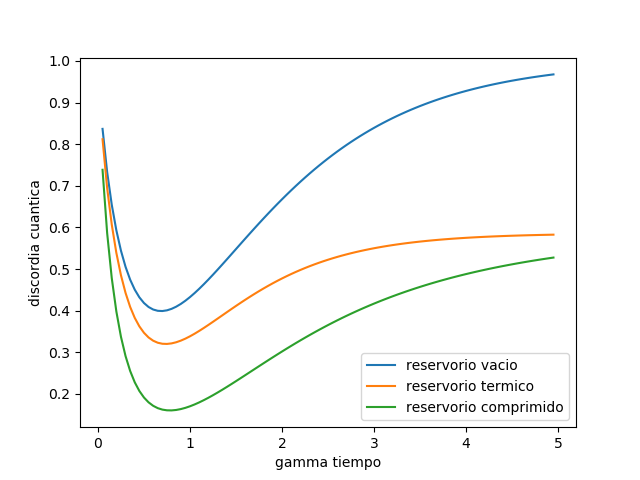
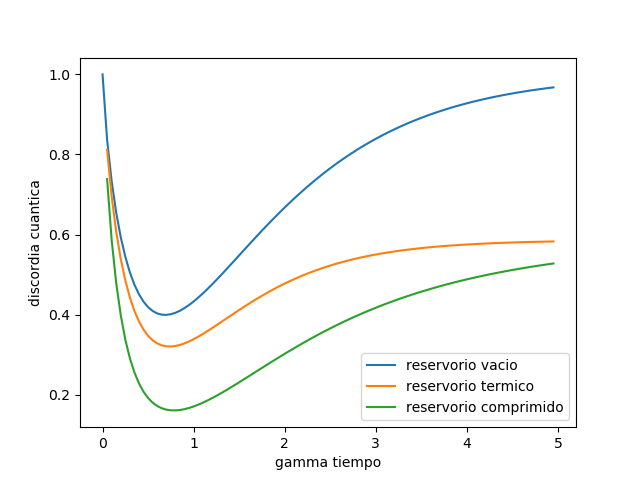
Cambio generado con script

diff --git a/master.py b/master.py
@@ -63,7 +63,10 @@ for i in range (0,100):
       consar=np.array([c1,c2,c3])
       c=np.amax(consar)
       conc_I1_S0S[i]=concurrence(mat)
-      disc_I1_S0S[i]=mat.eigenenergies()[0]*np.log2(np.absolute(4.*mat.eigenenergies()[0]))+mat.eigenenergies()[1]*np.log2(np.absolute(4.*mat.eigenenergies()[1]))+mat.eigenenergies()[2]*np.log2(np.absolute(4.*mat.eigenenergies()[2]))+mat.eigenenergies()[3]*np.log2(np.absolute(4.*mat.eigenenergies()[3]))+0.5*(-(1+c)*np.log2(np.absolute(1+c))-(1-c)*np.log2(np.absolute(1-c)))
+      disc_I1_S0S[i]=-0.5*((1+c)*np.log2(1+c)+(1-c)*np.log2(1-c))
+      for j in range (0,4):
+            if mat.eigenenergies()[j]!=0:
+               disc_I1_S0S[i]=disc_I1_S0S[i]+mat.eigenenergies()[j]*np.log2(4*mat.eigenenergies()[j])
 
 for i in range (0,100):
       mat=Qobj(em_I2_S0S.states[i])
